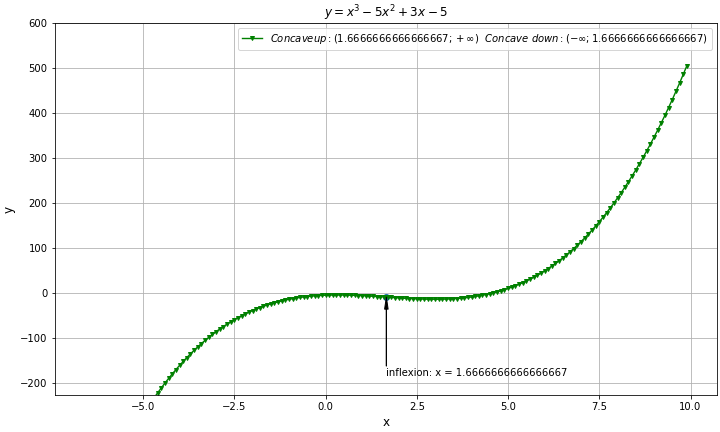
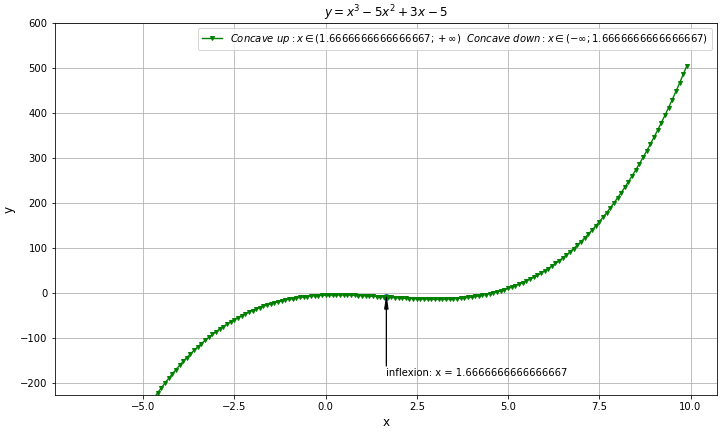
Fixed some label issues, rebuilt graphs

Changed region(s): [[0.275, 0.0602, 0.7944, 0.1204]]

diff --git a/functions_to_plot.py b/functions_to_plot.py
@@ -23,7 +23,7 @@ def func_0():
     
     inflexion_point_y = (inflexion_point_x**3/3)-2*inflexion_point_x**2+3*inflexion_point_x+5/3
     
-    label = f"$Concave \ down: \ x \in (-\infty;{inflexion_point_x}) \ \ Concave \ up: \ x \in ({inflexion_point_x};+\infty)$"
+    label = f"$Concave \ down: x \in (-\infty;{inflexion_point_x}) \ \ Concave \ up: x \in ({inflexion_point_x};+\infty)$"
     
     title = "$y = (x^3/3)-2*x^2+3*x+5/3$"
 
@@ -61,7 +61,7 @@ def func_2():
 
     inflexion_point_x = -3, 2
     
-    label = f"Concave \ down: $(-\infty;{inflexion_point_x[0]}) \cup ({inflexion_point_x[1]};+\infty) \ \ Concave up: ({inflexion_point_x[0]};{inflexion_point_x[1]})$"
+    label = f"$Concave \ down: x \in (-\infty;{inflexion_point_x[0]}) \cup ({inflexion_point_x[1]};+\infty) \ \ Concave \ up: x \in ({inflexion_point_x[0]};{inflexion_point_x[1]})$"
     
     inflexion_point_y = inflexion_point_x[0]+36*inflexion_point_x[0]**2-2*inflexion_point_x[0]**3-inflexion_point_x[0]**4,  inflexion_point_x[1]+36*inflexion_point_x[1]**2-2*inflexion_point_x[1]**3-inflexion_point_x[1]**4
     
@@ -83,7 +83,7 @@ def func_3():
     
     inflexion_point_y = None
     
-    label = "$Concave \ up: \ x \in \Re$"
+    label = "$Concave \ up: x \in \Re$"
 
     title = "$y = (x+1)^4+e^x$"
     
@@ -103,7 +103,7 @@ def func_4():
     
     inflexion_point_y = inflexion_point_x**3 - 5*inflexion_point_x**2 + 3*inflexion_point_x - 5
     
-    label = f"$Concave up: ({inflexion_point_x};+\infty) \ \ Concave \ down: (-\infty;{inflexion_point_x})$"
+    label = f"$Concave \ up: x \in ({inflexion_point_x};+\infty) \ \ Concave \ down: x \in (-\infty;{inflexion_point_x})$"
     
     title = "$y = x^3 - 5x^2 + 3x - 5$"
     
